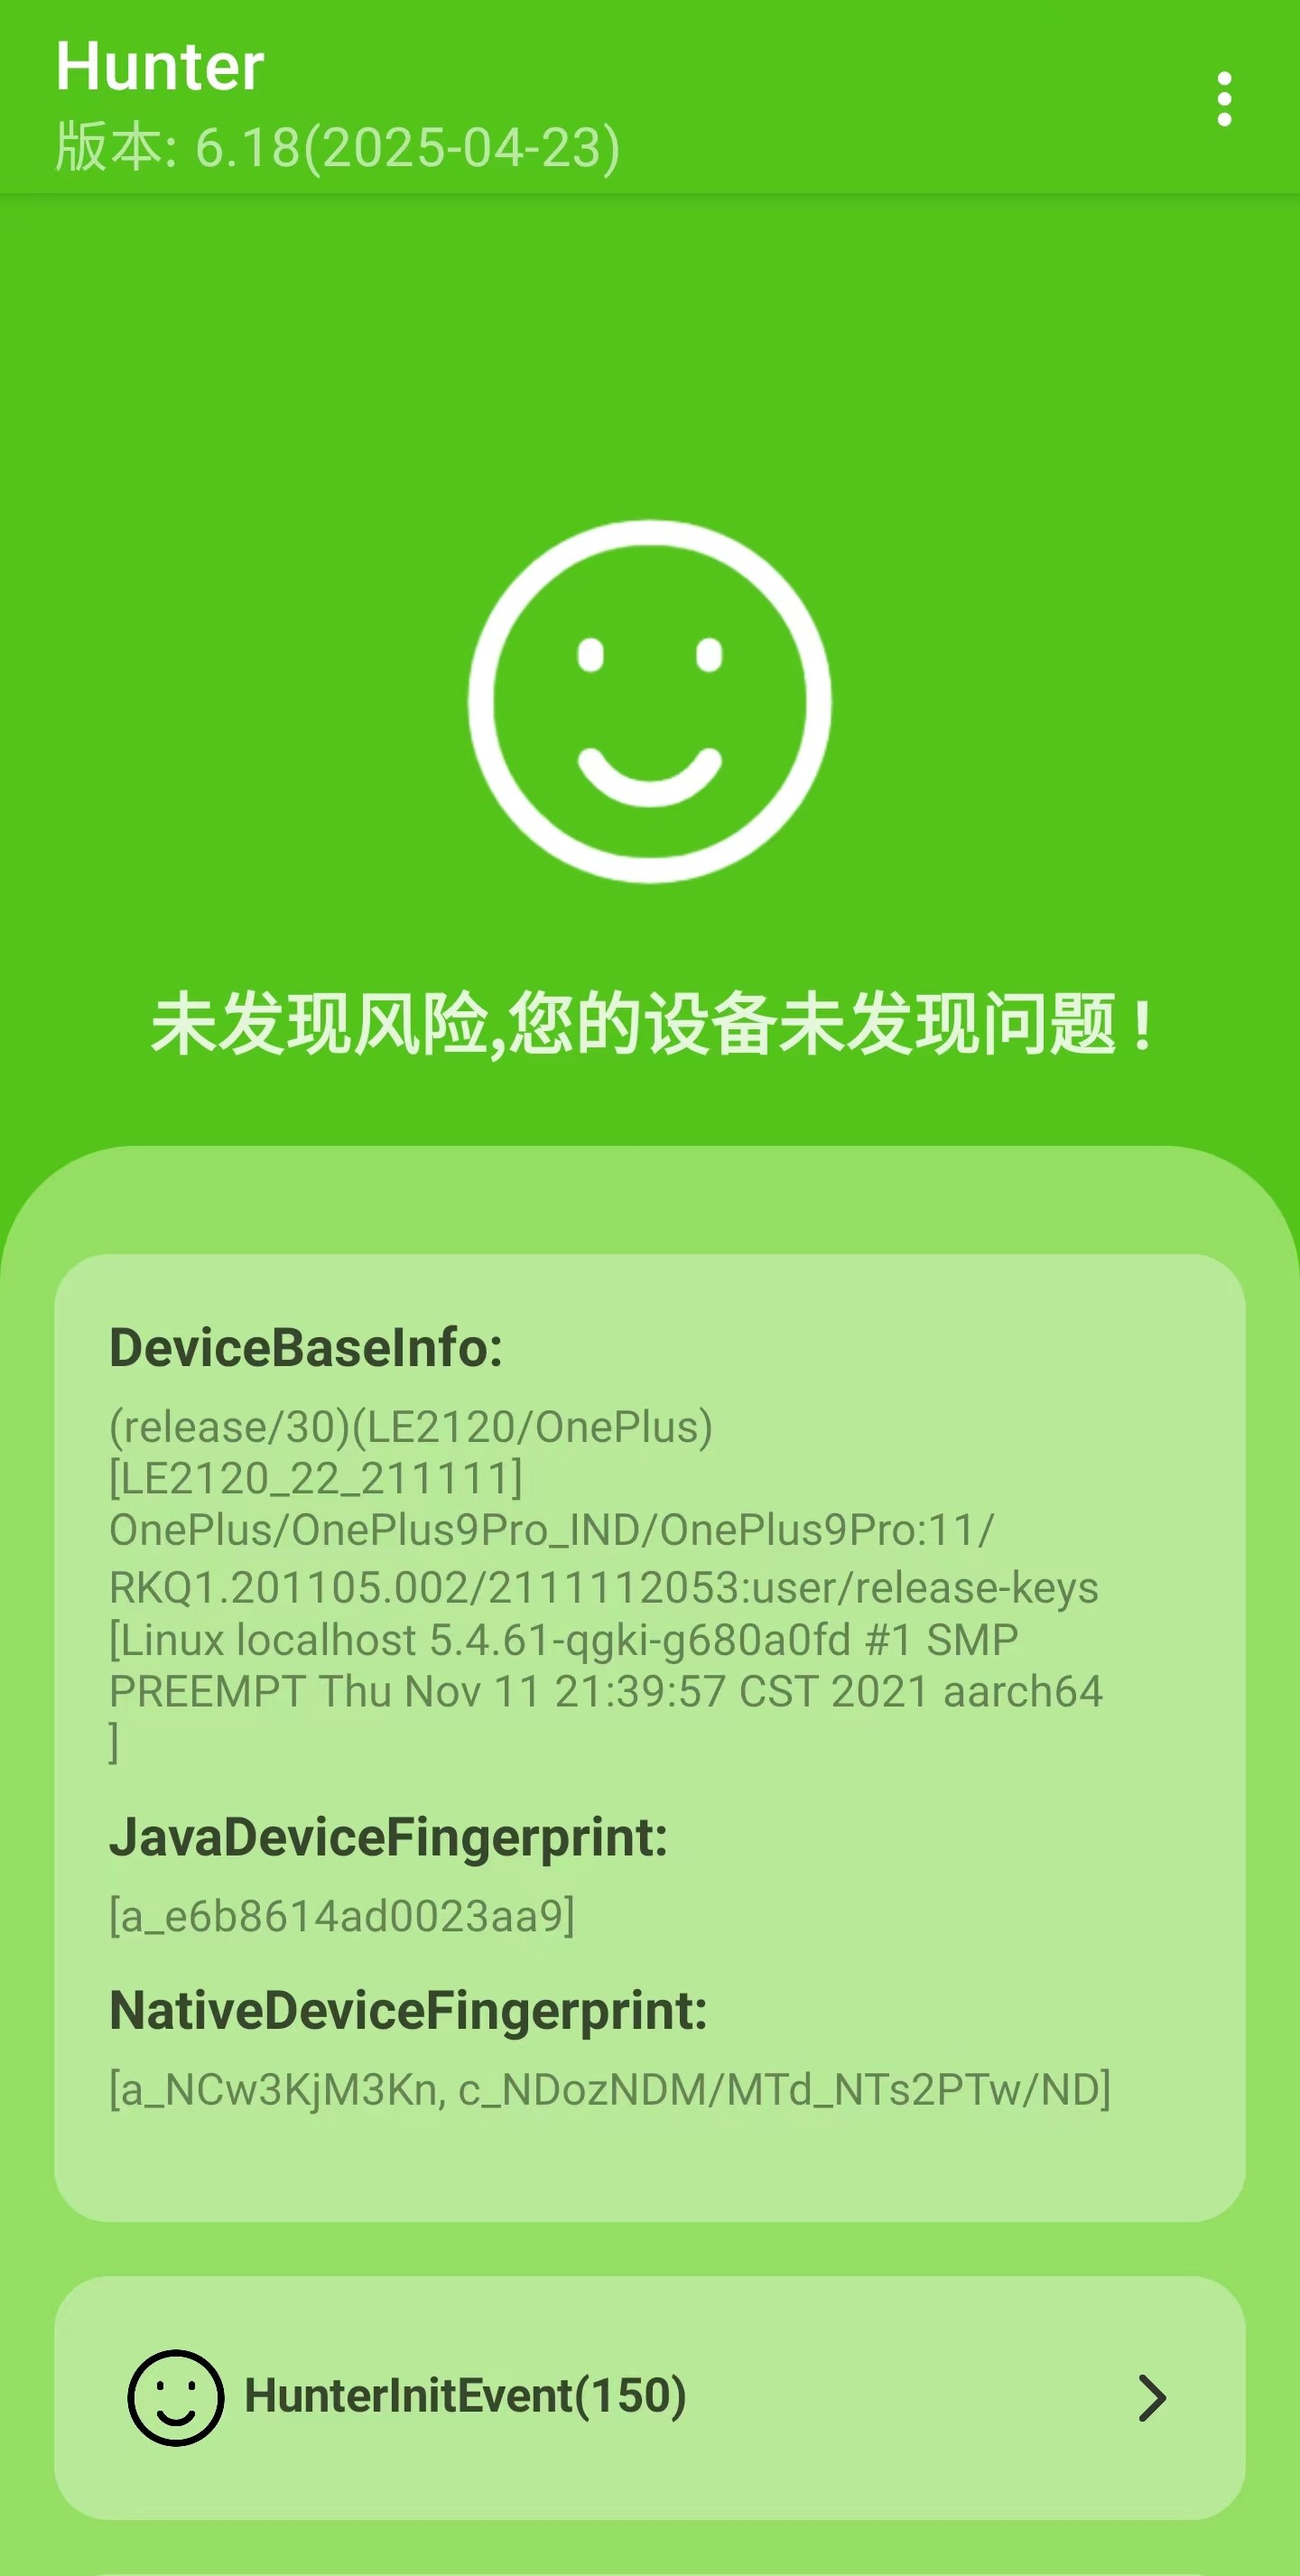
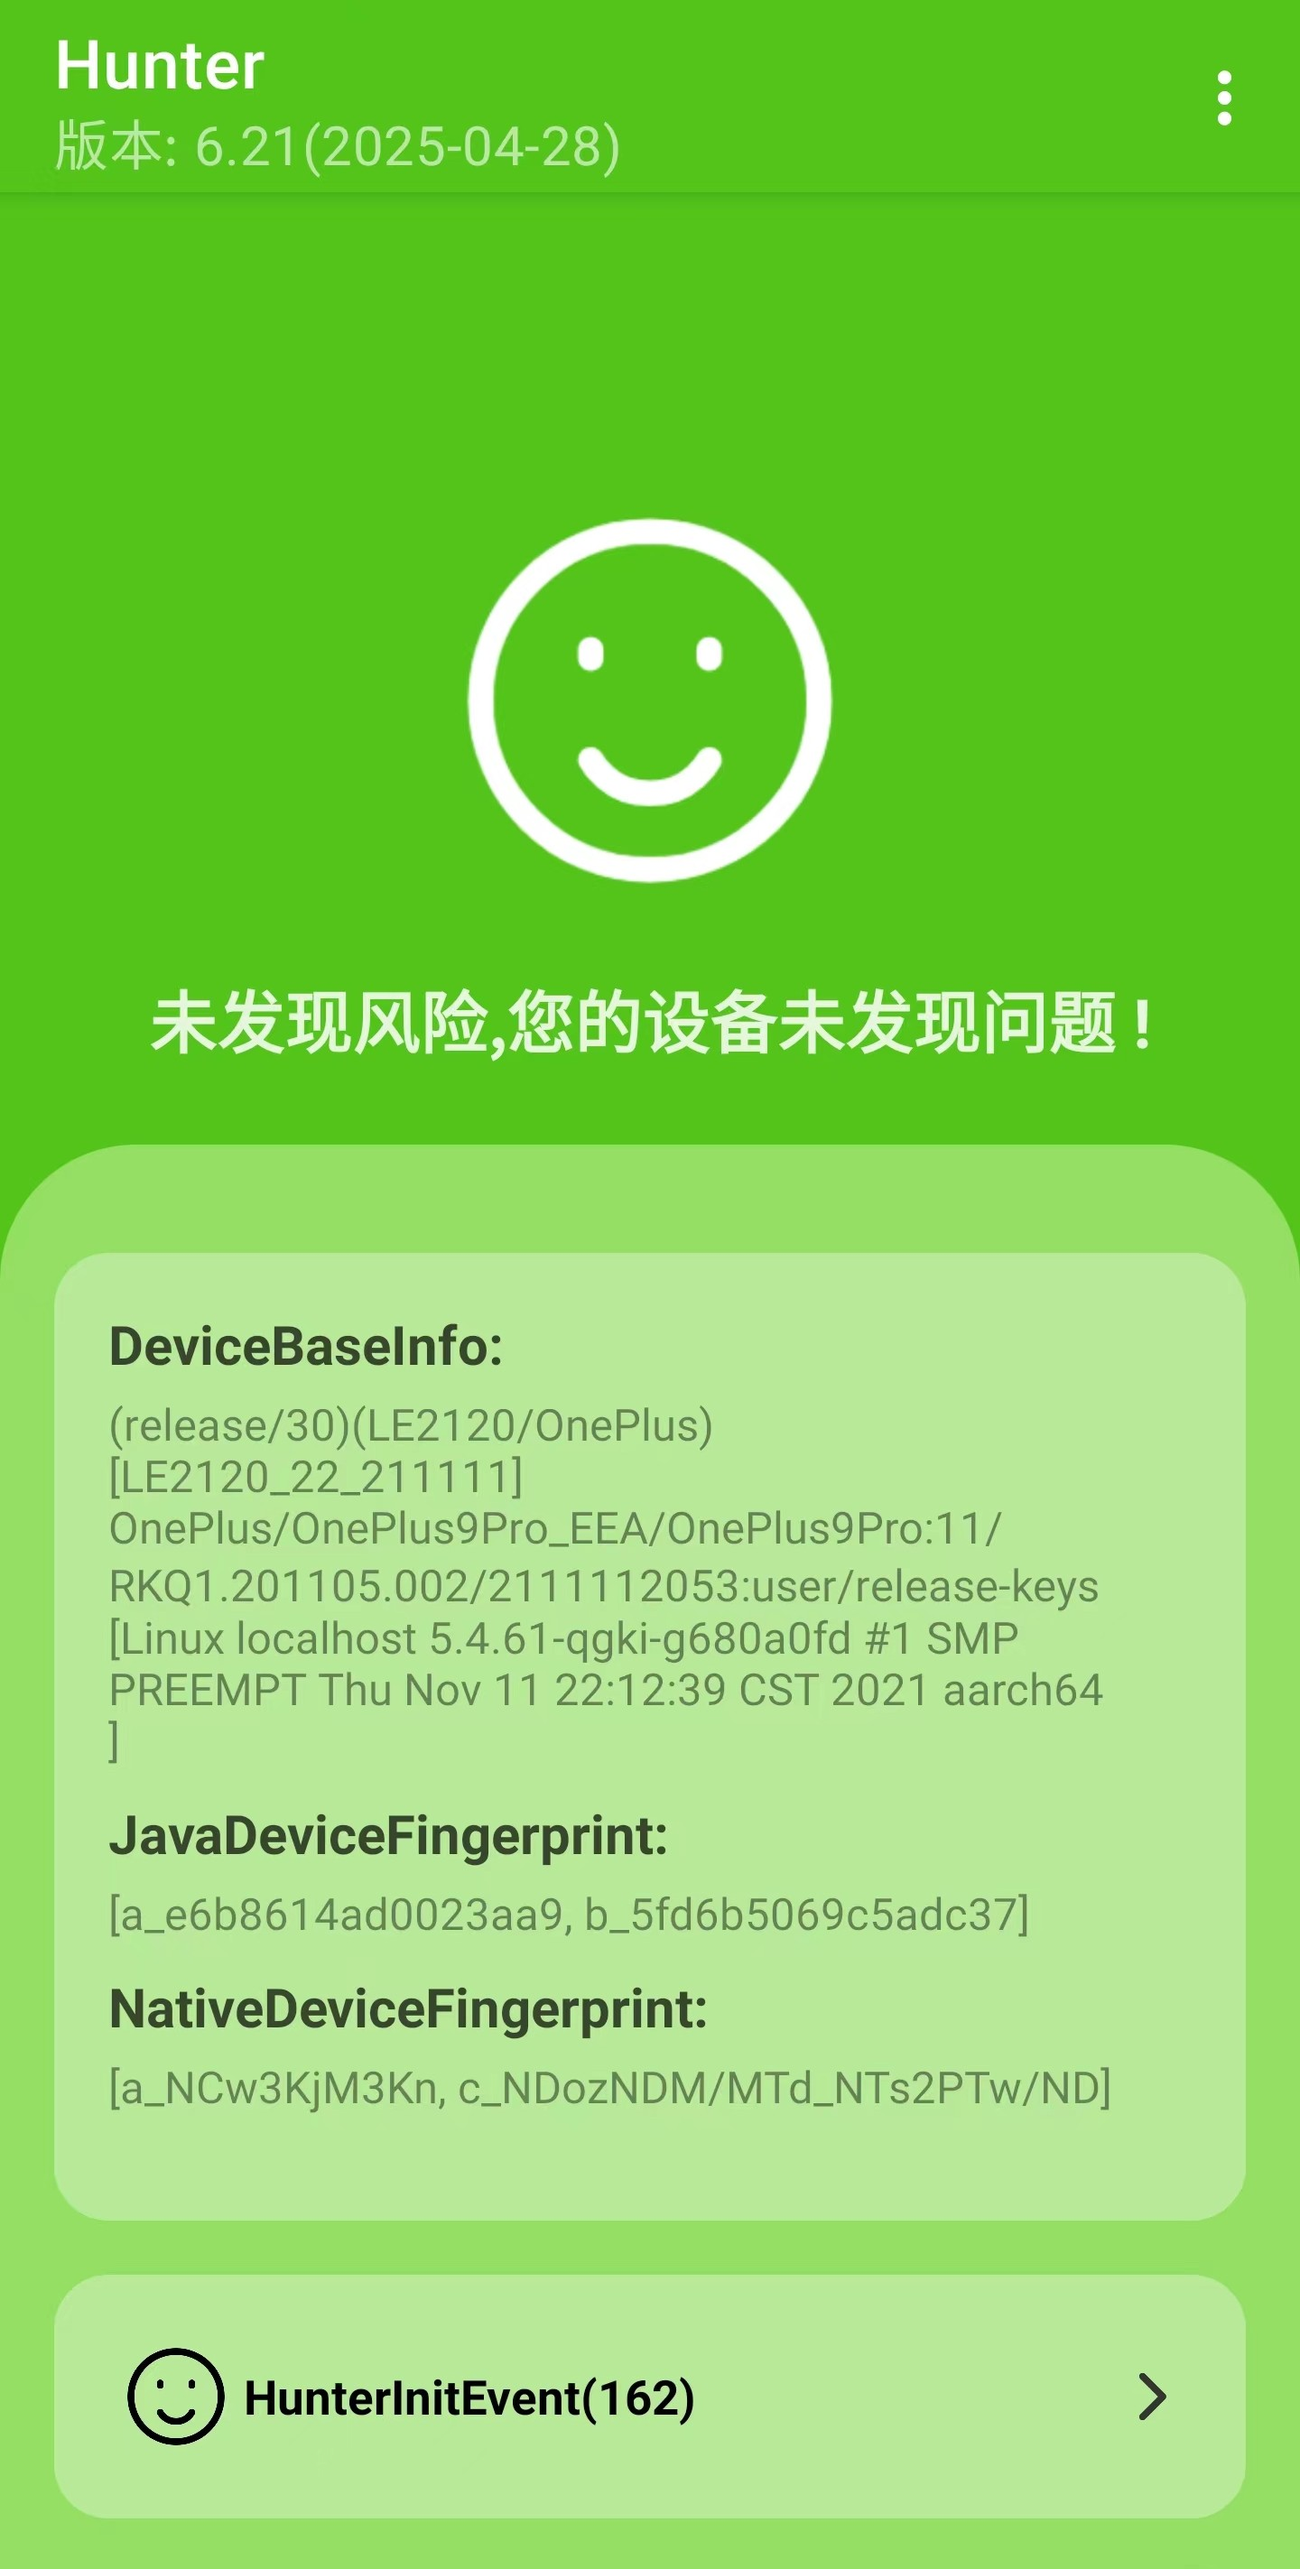
Update

diff --git a/Detectors/arrangeDetectors_v2.0.py b/Detectors/arrangeDetectors_v2.0.py
@@ -32,7 +32,7 @@ class Detectors:
 			self.__flag = True
 			return True
 		except BaseException as e:
-			print("Cannot load data from \"{0}\". Details are as follows. \t{1}".format(jsonFilePath, e))
+			print("Cannot load data from \"{0}\". Details are as follows. \n\t{1}".format(jsonFilePath, e))
 			return False
 	def checkDetectorFolderPath(self:object, detectorFolderPath:str = ".") -> int:
 		if self.__flag and isinstance(detectorFolderPath, str) and os.path.isdir(detectorFolderPath):

diff --git a/Detectors/TABLE.md b/Detectors/TABLE.md
@@ -8,9 +8,9 @@
 | Bank of China (Hong Kong) | ``com.bochk.app.aos`` | [https://play.google.com/store/apps/details?id=com.bochk.app.aos](https://play.google.com/store/apps/details?id=com.bochk.app.aos) | Android Desktop Application | Android Desktop Application | ``7.2.9 (141)`` |  April 9th, 2025 |
 | Checker | ``org.akanework.checker`` | | | Environment Detection | ``v1.0.9`` | Before January 8th, 2025 |
 | DRM Info | ``com.androidfung.drminfo`` | [https://play.google.com/store/apps/details?id=com.androidfung.drminfo](https://play.google.com/store/apps/details?id=com.androidfung.drminfo) | | Information Gathering | ``v1.1.15-240919`` |  September 19th, 2024 |
-| Hunter | ``com.zhenxi.hunter`` | | | Environment Detection | ``v6.18 (618)`` |  April 23rd, 2025 |
+| Hunter | ``com.zhenxi.hunter`` | | | Environment Detection | ``v6.21 (621)`` |  April 28th, 2025 |
 | IIQE 一考通 | ``com.prudential.iiqe`` | [https://iiqe-cms.prudential.com.hk/iiqe/](https://iiqe-cms.prudential.com.hk/iiqe/) | Android Desktop Application | Android Desktop Application | ``v6.4.3C88`` |  March 3rd, 2025 |
-| Luna | ``luna.safe.luna`` | [https://www.54nb.com/lunathanks.html](https://www.54nb.com/lunathanks.html) | Android Desktop Application | Android Desktop Application | ``v1.4.1.1`` |  May 23rd, 2025 |
+| Luna | ``luna.safe.luna`` | [https://www.54nb.com/lunathanks.html](https://www.54nb.com/lunathanks.html) | Android Desktop Application | Android Desktop Application | ``v1.4.1.2`` |  May 27th, 2025 |
 | Key Attestation | ``io.github.vvb2060.keyattestation`` | [https://github.com/vvb2060/KeyAttestation](https://github.com/vvb2060/KeyAttestation); [https://t.me/magiskalpha](https://t.me/magiskalpha); [https://t.me/playintegrityfix](https://t.me/playintegrityfix); [https://github.com/chiteroman/KeyAttestation](https://github.com/chiteroman/KeyAttestation) | Open-source | Key Attestation | ``v1.8.4`` |  February 6th, 2025 |
 | Magisk Detector | ``io.github.vvb2060.magiskdetector`` | [https://github.com/vvb2060/MagiskDetector](https://github.com/vvb2060/MagiskDetector) | Archieved & Open-source | Magisk Detection | ``v3.0`` |  August 9th, 2022 |
 | Momo | ``io.github.vvb2060.mahoshojo`` | | | Environment Detection | ``v4.4.1`` | Before January 7th, 2023 |
@@ -28,6 +28,7 @@
 | Xposed Checker | ``ml.w568w.checkxposed`` | [https://github.com/w568w/XposedChecker](https://github.com/w568w/XposedChecker) | Open-source | Environment Detection | ``v7.1 (9)`` | Before February 3rd, 2022 |
 | Xposed Detector | ``io.github.vvb2060.xposeddetector`` | [https://github.com/vvb2060/XposedDetector](https://github.com/vvb2060/XposedDetector) | Archieved & Open-source | Environment Detection | ``v2.2 (5)`` |  March 27th, 2021 |
 | Yet Another SafetyNet Attestation Checker | ``rikka.safetynetchecker`` | [https://github.com/RikkaW/YASNAC](https://github.com/RikkaW/YASNAC) | Archieved & Open-source | Play Integrity Check | ``v1.1.5.r65.15110ef310 (65)`` |  April 4th, 2022 |
+| 春秋检测 | ``chunqiu.safe`` | | Closed-source | Environment Detection | ``v1.6.0_Beta`` |  May 21st, 2025 |
 | 邮储银行 | ``com.yitong.mbank.psbc`` | [https://phone.psbc.com](https://phone.psbc.com) | Android Desktop Application | Android Desktop Application | ``v10.2.0`` |  March 3rd, 2025 |
 
 ---
@@ -42,9 +43,9 @@
 | Bank of China (Hong Kong) | ``com.bochk.app.aos`` | [https://play.google.com/store/apps/details?id=com.bochk.app.aos](https://play.google.com/store/apps/details?id=com.bochk.app.aos) | 安卓桌面应用 | 安卓桌面应用 | ``7.2.9 (141)`` |  2025 年 4 月 9 日 |
 | Checker | ``org.akanework.checker`` | | | 环境检测 | ``v1.0.9`` | 早于 2025 年 1 月 8 日 |
 | DRM Info | ``com.androidfung.drminfo`` | [https://play.google.com/store/apps/details?id=com.androidfung.drminfo](https://play.google.com/store/apps/details?id=com.androidfung.drminfo) | | 信息收集 | ``v1.1.15-240919`` |  2024 年 9 月 19 日 |
-| Hunter | ``com.zhenxi.hunter`` | | | 环境检测 | ``v6.18 (618)`` |  2025 年 4 月 23 日 |
+| Hunter | ``com.zhenxi.hunter`` | | | 环境检测 | ``v6.21 (621)`` |  2025 年 4 月 28 日 |
 | IIQE 一考通 | ``com.prudential.iiqe`` | [https://iiqe-cms.prudential.com.hk/iiqe/](https://iiqe-cms.prudential.com.hk/iiqe/) | 安卓桌面应用 | 安卓桌面应用 | ``v6.4.3C88`` |  2025 年 3 月 3 日 |
-| Luna | ``luna.safe.luna`` | [https://www.54nb.com/lunathanks.html](https://www.54nb.com/lunathanks.html) | 安卓桌面应用 | 安卓桌面应用 | ``v1.4.1.1`` |  2025 年 5 月 23 日 |
+| Luna | ``luna.safe.luna`` | [https://www.54nb.com/lunathanks.html](https://www.54nb.com/lunathanks.html) | 安卓桌面应用 | 安卓桌面应用 | ``v1.4.1.2`` |  2025 年 5 月 27 日 |
 | Key Attestation | ``io.github.vvb2060.keyattestation`` | [https://github.com/vvb2060/KeyAttestation](https://github.com/vvb2060/KeyAttestation)；[https://t.me/magiskalpha](https://t.me/magiskalpha)；[https://t.me/playintegrityfix](https://t.me/playintegrityfix)；[https://github.com/chiteroman/KeyAttestation](https://github.com/chiteroman/KeyAttestation) | 开源 | 密钥认证 | ``v1.8.4`` |  2025 年 2 月 6 日 |
 | Magisk Detector | ``io.github.vvb2060.magiskdetector`` | [https://github.com/vvb2060/MagiskDetector](https://github.com/vvb2060/MagiskDetector) | 已存档 & 开源 | 面具检测 | ``v3.0`` |  2022 年 8 月 9 日 |
 | Momo | ``io.github.vvb2060.mahoshojo`` | | | 环境检测 | ``v4.4.1`` | 早于 2023 年 1 月 7 日 |
@@ -62,4 +63,5 @@
 | Xposed Checker | ``ml.w568w.checkxposed`` | [https://github.com/w568w/XposedChecker](https://github.com/w568w/XposedChecker) | 开源 | 环境检测 | ``v7.1 (9)`` | 早于 2022 年 2 月 3 日 |
 | Xposed Detector | ``io.github.vvb2060.xposeddetector`` | [https://github.com/vvb2060/XposedDetector](https://github.com/vvb2060/XposedDetector) | 已存档 & 开源 | 环境检测 | ``v2.2 (5)`` |  2021 年 3 月 27 日 |
 | Yet Another SafetyNet Attestation Checker | ``rikka.safetynetchecker`` | [https://github.com/RikkaW/YASNAC](https://github.com/RikkaW/YASNAC) | 已存档 & 开源 | Play 完整性检测 | ``v1.1.5.r65.15110ef310 (65)`` |  2022 年 4 月 4 日 |
+| 春秋检测 | ``chunqiu.safe`` | | 闭源 | 环境检测 | ``v1.6.0_Beta`` |  2025 年 5 月 21 日 |
 | 邮储银行 | ``com.yitong.mbank.psbc`` | [https://phone.psbc.com](https://phone.psbc.com) | 安卓桌面应用 | 安卓桌面应用 | ``v10.2.0`` |  2025 年 3 月 3 日 |

diff --git a/Detectors/README.md b/Detectors/README.md
@@ -55,8 +55,8 @@
 
 - **Package Name**: ``com.zhenxi.hunter``
 - **Developing Purpose**: Environment Detection
-- **Latest Version**: ``v6.18 (618)``
-- **Release Date**:  April 23rd, 2025
+- **Latest Version**: ``v6.21 (621)``
+- **Release Date**:  April 28th, 2025
 - **Detection Remark**: Please wait about 10 seconds to complete the detection and display. 
 
 ### IIQE 一考通
@@ -75,8 +75,8 @@
 - **Official Link**: https://www.54nb.com/lunathanks.html
 - **Source Status**: Android Desktop Application
 - **Developing Purpose**: Android Desktop Application
-- **Latest Version**: ``v1.4.1.1``
-- **Release Date**:  May 23rd, 2025
+- **Latest Version**: ``v1.4.1.2``
+- **Release Date**:  May 27th, 2025
 
 ### Key Attestation
 
@@ -236,6 +236,14 @@
 - **Latest Version**: ``v1.1.5.r65.15110ef310 (65)``
 - **Release Date**:  April 4th, 2022
 
+### 春秋检测
+
+- **Package Name**: ``chunqiu.safe``
+- **Source Status**: Closed-source
+- **Developing Purpose**: Environment Detection
+- **Latest Version**: ``v1.6.0_Beta``
+- **Release Date**:  May 21st, 2025
+
 ### 邮储银行
 
 - **Alias**: Postal Savings Bank of China; PSBC
@@ -310,8 +318,8 @@
 
 - **应用包名**：``com.zhenxi.hunter``
 - **开发用途**：环境检测
-- **最新版本**：``v6.18 (618)``
-- **发行日期**： 2025 年 4 月 23 日
+- **最新版本**：``v6.21 (621)``
+- **发行日期**： 2025 年 4 月 28 日
 - **检测备注**：请等待 10 秒左右以完成检测和显示。
 - ![hunterCN.jpg](hunterCN.jpg)
 
@@ -330,8 +338,9 @@
 - **官方链接**：[https://www.54nb.com/lunathanks.html](https://www.54nb.com/lunathanks.html)
 - **开源状态**：安卓桌面应用
 - **开发用途**：安卓桌面应用
-- **最新版本**：``v1.4.1.1``
-- **发行日期**： 2025 年 5 月 23 日
+- **最新版本**：``v1.4.1.2``
+- **发行日期**： 2025 年 5 月 27 日
+- ![lunaCN.jpg](lunaCN.jpg)
 
 ### Key Attestation
 
@@ -501,6 +510,14 @@
 - **开发用途**：Play 完整性检测
 - **最新版本**：``v1.1.5.r65.15110ef310 (65)``
 - **发行日期**： 2022 年 4 月 4 日
+
+### 春秋检测
+
+- **应用包名**：``chunqiu.safe``
+- **开源状态**：闭源
+- **开发用途**：环境检测
+- **最新版本**：``v1.6.0_Beta``
+- **发行日期**： 2025 年 5 月 21 日
 
 ### 邮储银行
 

diff --git a/README.md b/README.md
@@ -10,7 +10,7 @@ We call on the open source community to maintain internal unity and harmony. The
 
 Please see [Implementers](./Implementers/README.md), [Detectors](./Detectors/README.md), and [Bypassers](./Bypassers/README.md) for details. 
 
-The last update of this repository was at 17:30 on May 25th, 2025 (UTC+8). 
+The last update of this repository was at 15:00 on May 27th, 2025 (UTC+8). 
 
 ---
 
@@ -26,4 +26,4 @@ The last update of this repository was at 17:30 on May 25th, 2025 (UTC+8).
 
 详情请查看 [Implementers](./Implementers/README.md)、[Detectors](./Detectors/README.md) 和 [Bypassers](./Bypassers/README.md)。
 
-本存储库最后一次更新时间为 2025 年 5 月 25 日 17:30（中国标准时间）。
+本存储库最后一次更新时间为 2025 年 5 月 27 日 15:00（中国标准时间）。
